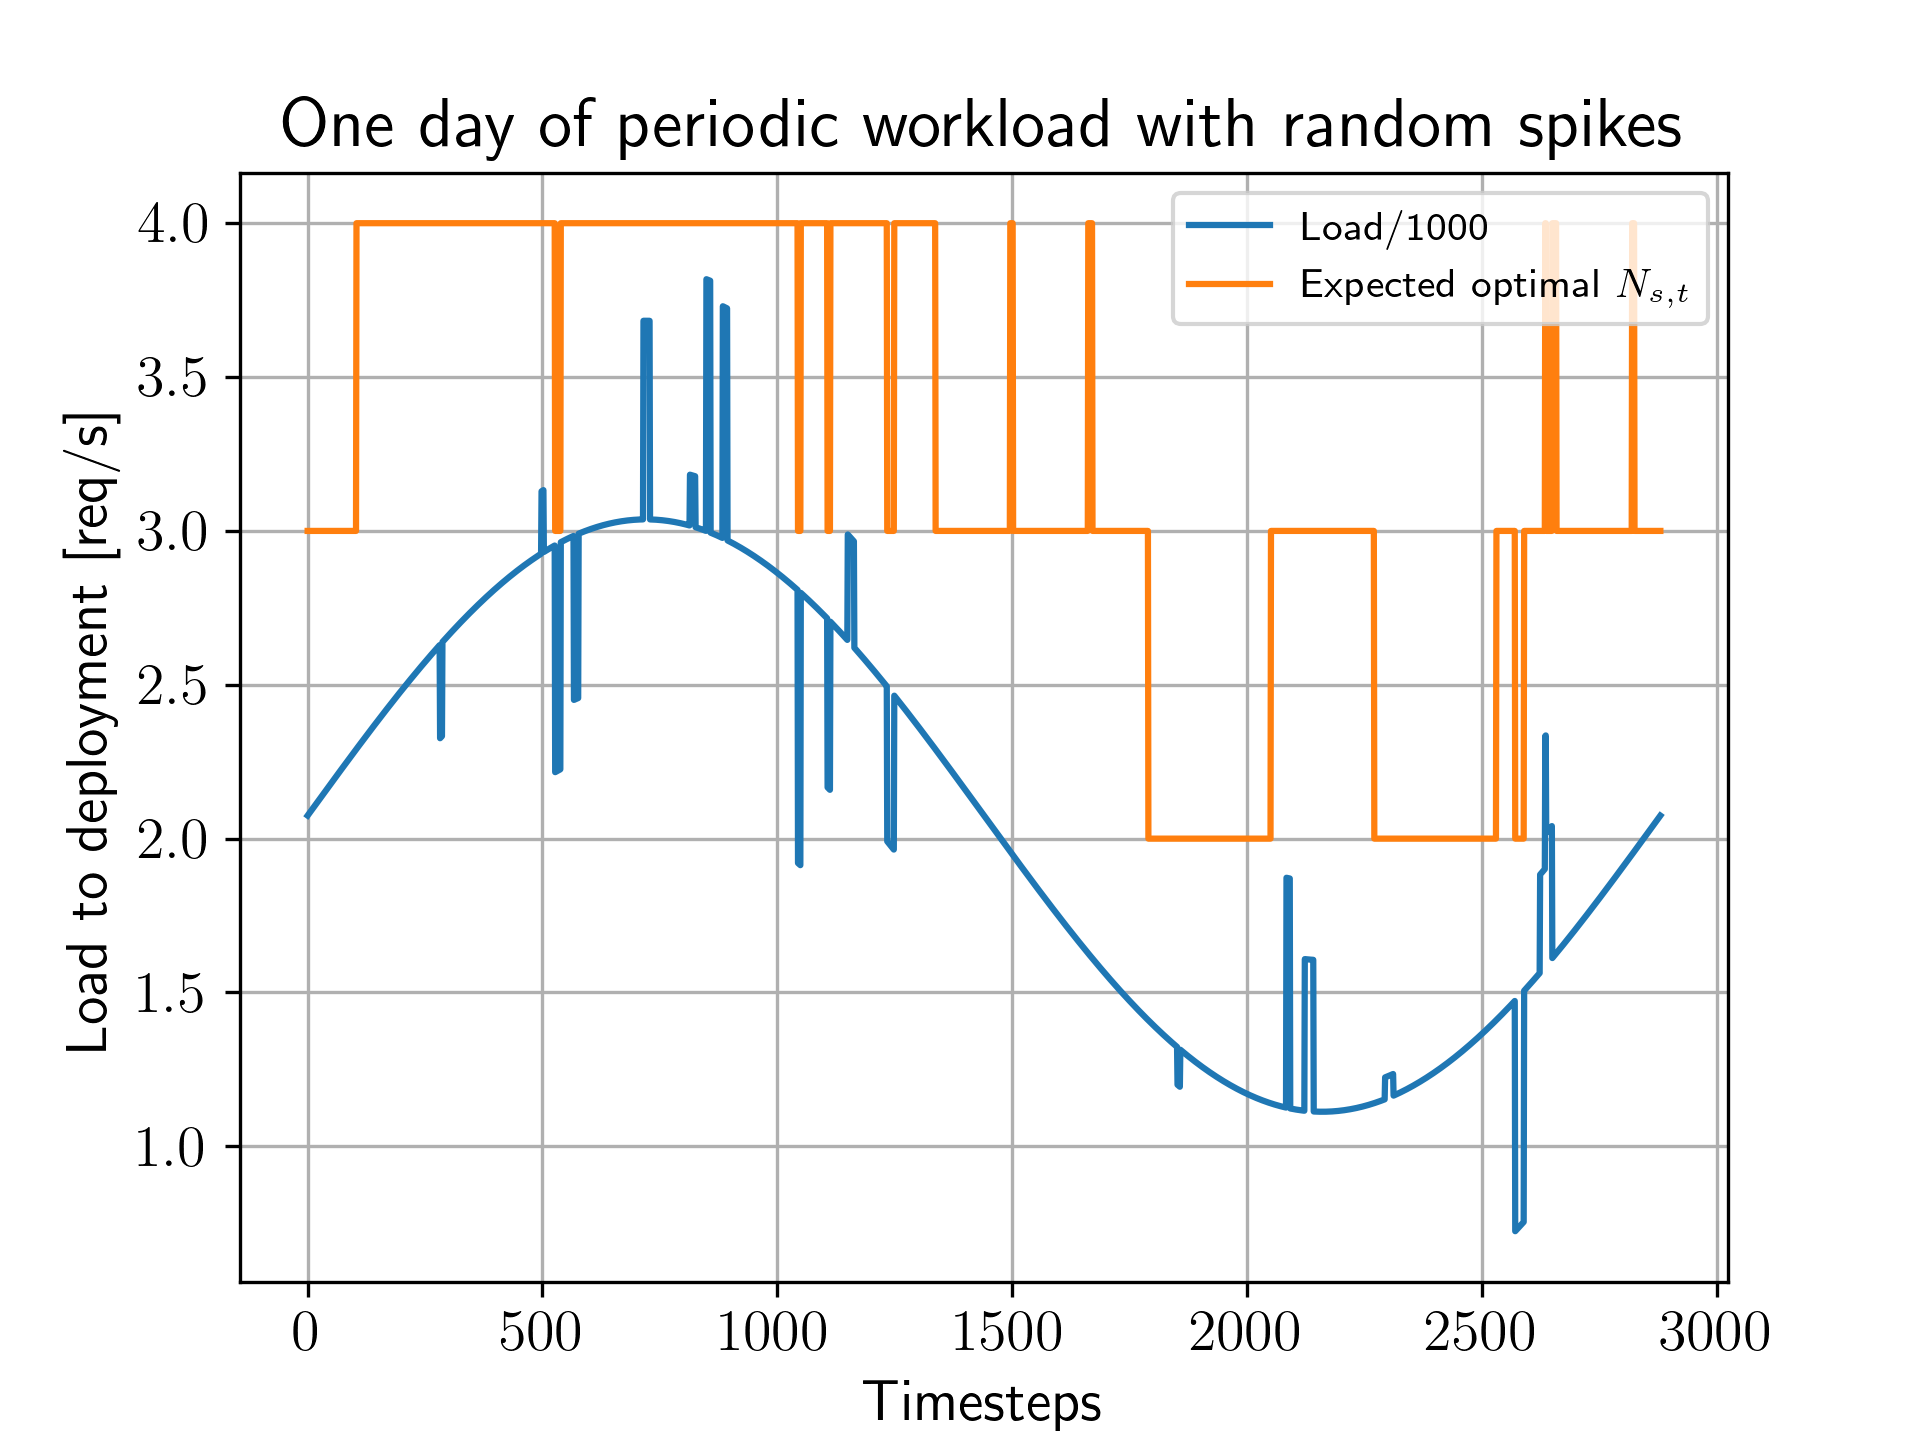
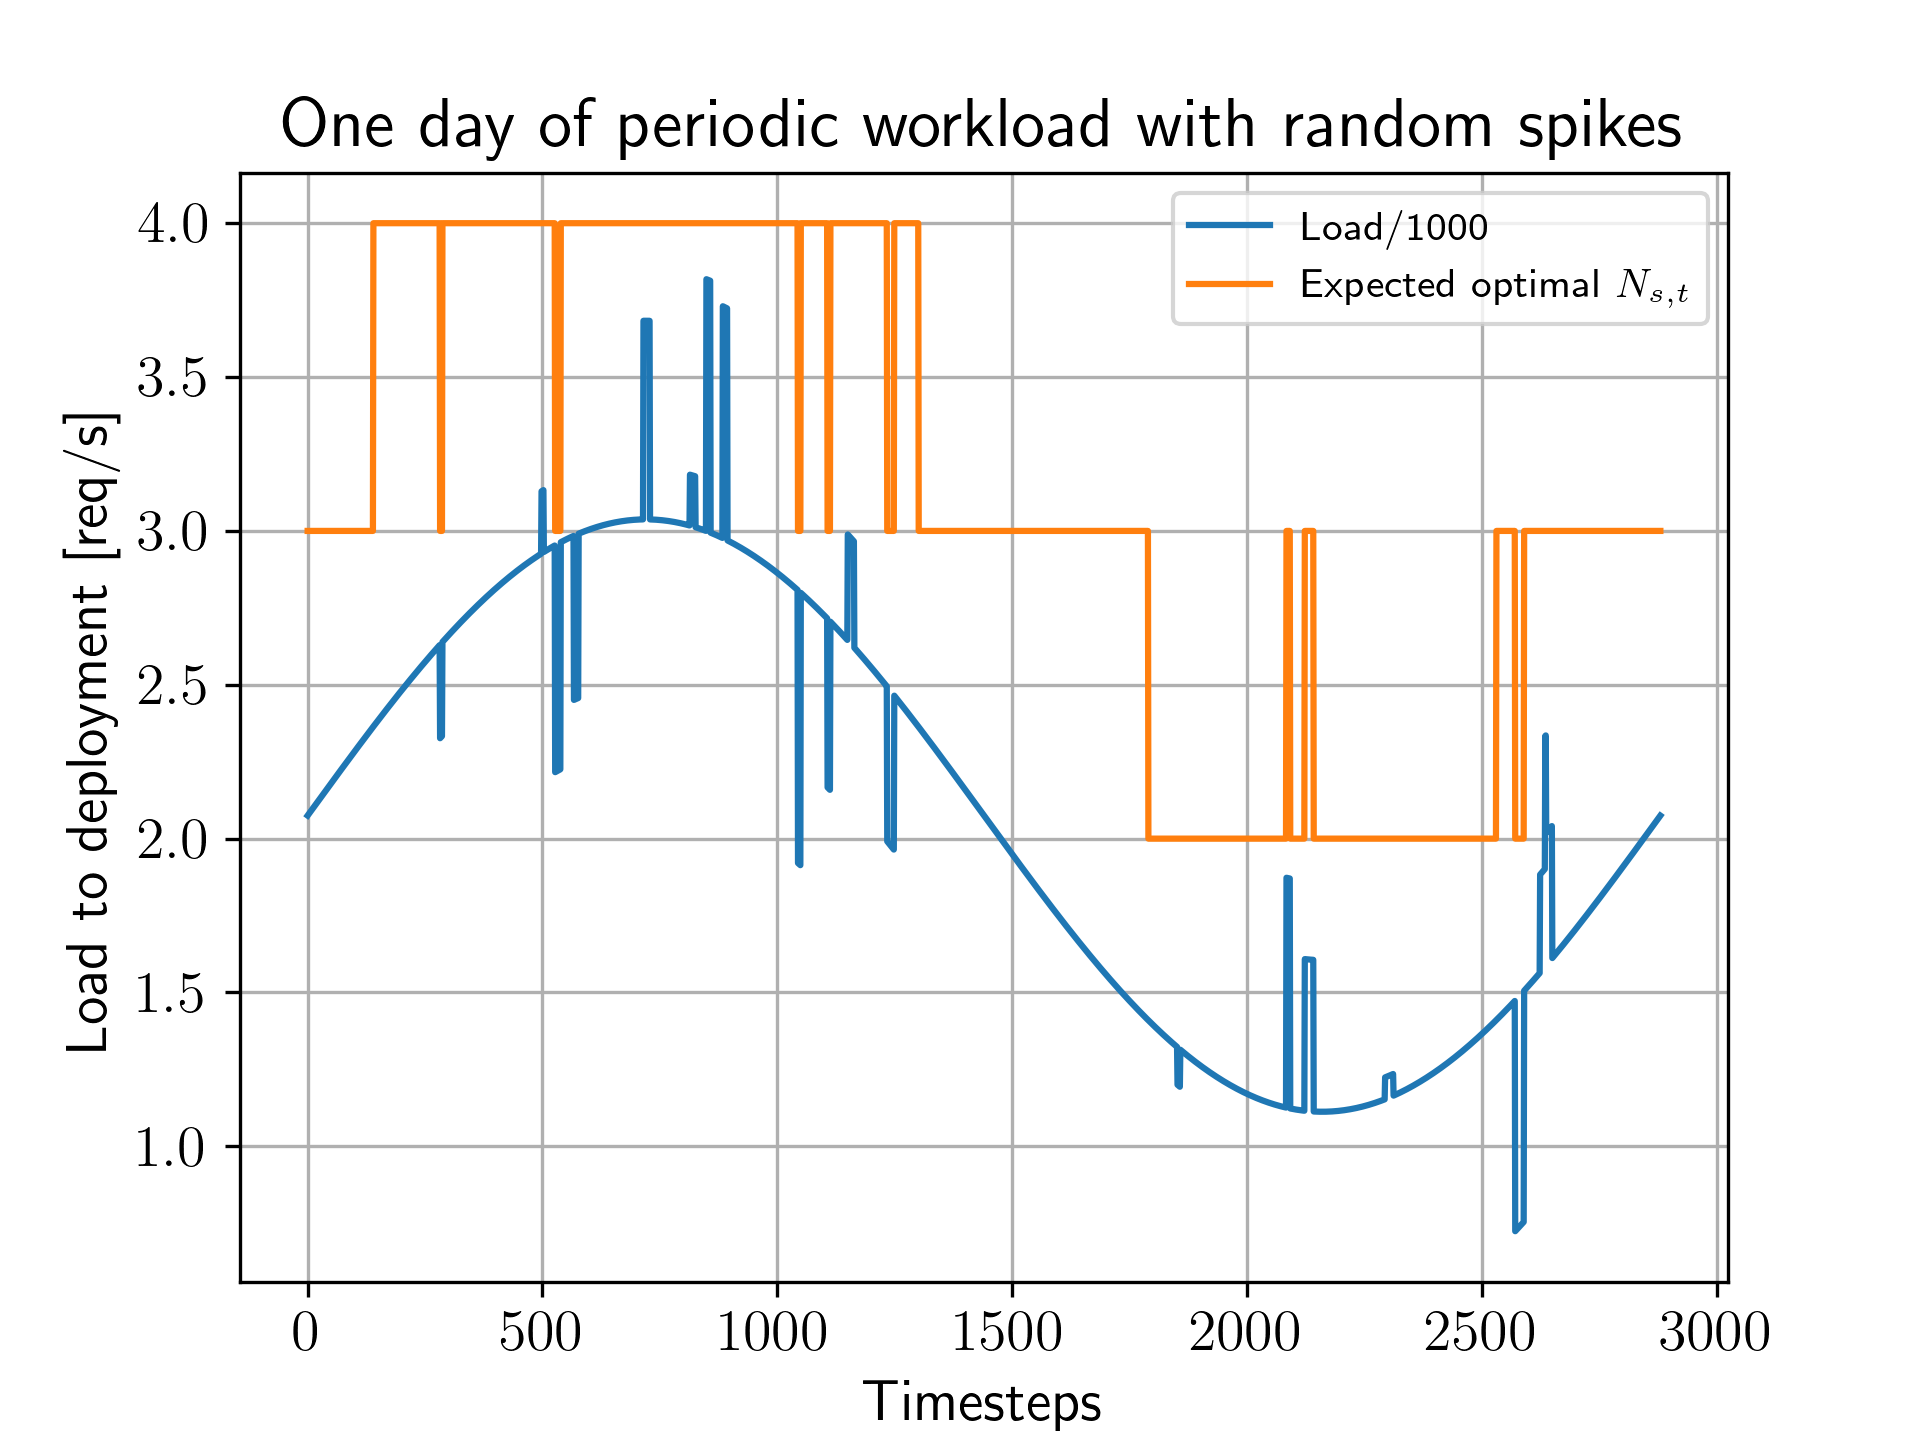
optimal replicas updated

diff --git a/experiments/experiment_3/data_processing.py b/experiments/experiment_3/data_processing.py
@@ -12,6 +12,15 @@ import numpy as np
 import json
 import math
 
+plt.rcParams.update({
+    "text.usetex": True,
+    "font.family": "sans-serif",
+    "font.sans-serif": "Georgia",
+    "font.size": 10,
+    "figure.dpi": 300,
+    "figure.figsize": [5,8]
+})
+
 # Read data from DataFrame
 df = pd.read_csv('timeseries/new_data_sawTooth_1500users_20230620.csv')
 
@@ -39,41 +48,20 @@ load = df[load_column]
 
 # define the order of the metrics
 metrics_df = [rep, load, rps, p90, cpu, mem]
-metrics_df_order = ["rep", "load", "rps", "p95", "CPU", "mem"]
+metrics_df_order = ["Replicas", "Load [req/s]", "RPS [req/s]", "Latency [ms]", "CPU [\%]", "Memory [\%]"]
 metrics_df_means = pd.DataFrame()
 
-print("load df\n", load)
+# print("load df\n", load)
 
 # Create a series of plots for each measurement
 fig, axs = plt.subplots(len(metrics_df), 1)
 metric_idx = 0
 for df in metrics_df:
     axs[metric_idx].set_title(metrics_df_order[metric_idx])
+    axs[metric_idx].grid()
     mean_signal = []
-    # compute the mean of the group of signals and plot it
-    # take the mean at each timestamp
-    for timestamp in range(len(timestamps)):
-        row_mean = np.mean(df.iloc[timestamp])
-        # append the value to the array mean_signal
-        mean_signal.append(np.round(row_mean,2))
-    
-    for col in df:
-        # plot every signal of that metric
-        axs[metric_idx].plot(timestamps, df[col].values, color='b', label=f"{col}")
-    # plot the mean signal
-    # axs[metric_idx].plot(timestamps, mean_signal, color='r')
-    # save the mean as the new signal
-    df = pd.DataFrame({f'{metrics_df_order[metric_idx]}_mean': mean_signal})
-    # print("df", df)
-    metrics_df_means[metrics_df_order[metric_idx]] = df
-    metric_idx += 1
-
-print(metrics_df_means.to_string())
-# plt.figure(2)
-# plt.plot(timestamps, metrics_df_means['rps'])
-# drop rows
-# TODO drop other rows
-metrics_df_means.drop([61,62,63,64,65,66,67,68,69,
+    # remove rows
+    df.drop([61,62,63,64,65,66,67,68,69,
                        120,121,122,123,124,125,126,127,128,129,
                        181,182,183,184,185,186,187,188,189,190,191,
                        243,244,245,246,247,248,249,250,251,252,
@@ -87,6 +75,44 @@ metrics_df_means.drop([61,62,63,64,65,66,67,68,69,
                        730,731,732,733,734,735,736,737,738,739,740,741,742,743,
                        790,791,792,793,794,795,796,897,798,799,800,801,802,803,804,805,
                        850,851,852,853,854,855,856,857,858,859,860,861,862,863,864,865,866], inplace=True)
+    # compute the mean of the group of signals and plot it
+    # take the mean at each timestamp
+    t = np.arange(0,len(df))
+    for timestamp in range(len(t)):
+        row_mean = np.mean(df.iloc[timestamp])
+        # append the value to the array mean_signal
+        mean_signal.append(np.round(row_mean,2))
+    
+    for col in df:
+        # plot every signal of that metric
+        axs[metric_idx].plot(t, df[col].values, color='b', label=f"{col}")
+    # plot the mean signal
+    axs[metric_idx].plot(t, mean_signal, color='r')
+    # save the mean as the new signal
+    df = pd.DataFrame({f'{metrics_df_order[metric_idx]}_mean': mean_signal})
+    # print("df", df)
+    metrics_df_means[metrics_df_order[metric_idx]] = df
+    metric_idx += 1
+
+print(metrics_df_means.to_string())
+# plt.figure(2)
+# plt.plot(timestamps, metrics_df_means['rps'])
+# drop rows
+# TODO drop other rows
+# metrics_df_means.drop([61,62,63,64,65,66,67,68,69,
+#                        120,121,122,123,124,125,126,127,128,129,
+#                        181,182,183,184,185,186,187,188,189,190,191,
+#                        243,244,245,246,247,248,249,250,251,252,
+#                        304,305,306,307,308,309,310,311,312,313,314,
+#                        365,366,367,368,369,370,371,372,373,374,375,
+#                        426,427,428,429,430,431,432,433,434,435,436,437,
+#                        488,489,490,491,492,493,494,495,496,497,498,
+#                        549,550,551,552,553,554,555,556,557,558,559,
+#                        610,611,612,613,614,615,616,617,618,619,620,621,
+#                        670,671,672,673,674,675,676,677,678,679,680,681,682,
+#                        730,731,732,733,734,735,736,737,738,739,740,741,742,743,
+#                        790,791,792,793,794,795,796,897,798,799,800,801,802,803,804,805,
+#                        850,851,852,853,854,855,856,857,858,859,860,861,862,863,864,865,866], inplace=True)
 # print(f"After .drop():\n{metrics_df_means.to_string()}")
 
 # Check metrics trend
@@ -114,31 +140,31 @@ metrics_df_means.drop([61,62,63,64,65,66,67,68,69,
 ]
 """
 
-json_list = []
-json_dict = {}
-for _, row in metrics_df_means.iterrows():
-    # if list is empty
-    if not json_list:
-        d = {'rep': row['rep'], 'metric_rows':[row.drop('rep').to_dict()]}
-        # print(d)
-        # append that dictionary to the list
-        json_list.append(d)
-    else:
-        # check if dicitonary for that replica is already present in the list
-        if not any(d['rep'] == row['rep'] for d in json_list):
-            # create a new dictionary for the number of replicas
-            d = {'rep': row['rep'], 'metric_rows':[row.drop('rep').to_dict()]}
-            # print(d)
-            # append that dictionary to the list
-            json_list.append(d)
-        else:
-            # add metrics for that replica
-            for index in range(len(json_list)):
-                if json_list[index]['rep'] == row['rep']:
-                    json_list[index]['metric_rows'].append(row.drop('rep').to_dict())
-                    # sort by rps
-                    # TODO sort by RPS to deployment
-                    json_list[index]['metric_rows'] = sorted(json_list[index]['metric_rows'], key=lambda metric: metric['load'])
+# json_list = []
+# json_dict = {}
+# for _, row in metrics_df_means.iterrows():
+#     # if list is empty
+#     if not json_list:
+#         d = {'rep': row['rep'], 'metric_rows':[row.drop('rep').to_dict()]}
+#         # print(d)
+#         # append that dictionary to the list
+#         json_list.append(d)
+#     else:
+#         # check if dicitonary for that replica is already present in the list
+#         if not any(d['rep'] == row['rep'] for d in json_list):
+#             # create a new dictionary for the number of replicas
+#             d = {'rep': row['rep'], 'metric_rows':[row.drop('rep').to_dict()]}
+#             # print(d)
+#             # append that dictionary to the list
+#             json_list.append(d)
+#         else:
+#             # add metrics for that replica
+#             for index in range(len(json_list)):
+#                 if json_list[index]['rep'] == row['rep']:
+#                     json_list[index]['metric_rows'].append(row.drop('rep').to_dict())
+#                     # sort by rps
+#                     # TODO sort by RPS to deployment
+#                     json_list[index]['metric_rows'] = sorted(json_list[index]['metric_rows'], key=lambda metric: metric['load'])
 
 # print(json_list)
 
@@ -153,3 +179,5 @@ for _, row in metrics_df_means.iterrows():
 # plt.legend()
 # Display the plot
 # plt.show()
+plt.tight_layout()
+plt.savefig('data_samples.png')

diff --git a/experiments/experiment_3/agent_learn.py b/experiments/experiment_3/agent_learn.py
@@ -317,7 +317,7 @@ if __name__ == "__main__":
     elif rew_fun == "linear_1": alpha = 15 # 15% of optimisation gap
     else: alpha = 1
 
-    TIMESTEPS = 2*20160
+    TIMESTEPS = 2880 # 2*20160
     EPISODES = 1
 
     # Generate directories
@@ -379,7 +379,7 @@ if __name__ == "__main__":
     # 3 rnd_sin
     # 4 rnd_sin_inf
     # 5 cos_inf
-    rps_signal = existing_data[1]['rps_signal']
+    rps_signal = existing_data[4]['rps_signal'][:TIMESTEPS+1]
     # print(f"existing_data[2]: {existing_data[2]}")
     # print(f"rps_signal: {rps_signal}")
 
@@ -405,10 +405,10 @@ if __name__ == "__main__":
         # plt.plot(_, opt_p95, label='Optimal $L_{s,t}$')
         plt.xlabel("Timesteps")
         plt.ylabel("Load to deployment [req/s]")
-        plt.title(f"Stepwise workload")
+        plt.title(f"One day of periodic workload with random spikes $H'$")
         plt.grid()
         plt.legend(loc='upper right', fontsize='x-small')
-        plt.savefig('step_func.png')
+        plt.savefig('one_day_rnd_sin2.png')
         print(f"Mean optimal replicas: {np.mean(opt_rep)}")
 
     # Generate environment

diff --git a/experiments/experiment_3/agent_predict.py b/experiments/experiment_3/agent_predict.py
@@ -293,7 +293,7 @@ if __name__ == "__main__":
     # 4 rnd_sin_inf
     # 5 cos_inf
     # rps_signal = existing_data[3]['rps_signal'][1440:2880+1440]
-    rps_signal = existing_data[5]['rps_signal']
+    rps_signal = existing_data[2]['rps_signal']
 
     # Generate environment
     env = setup_environment(alpha, 

diff --git a/experiments/experiment_3/test.py b/experiments/experiment_3/test.py
@@ -4,7 +4,7 @@ from get_metrics import GetMetrics
 import math
 import matplotlib.pyplot as plt
 
-d_file = open('exp3_new_sorted_samples.json', 'r')
+d_file = open('exp3_sorted_samples.json', 'r')
 data = json.load(d_file)
 d_file.close()
 
